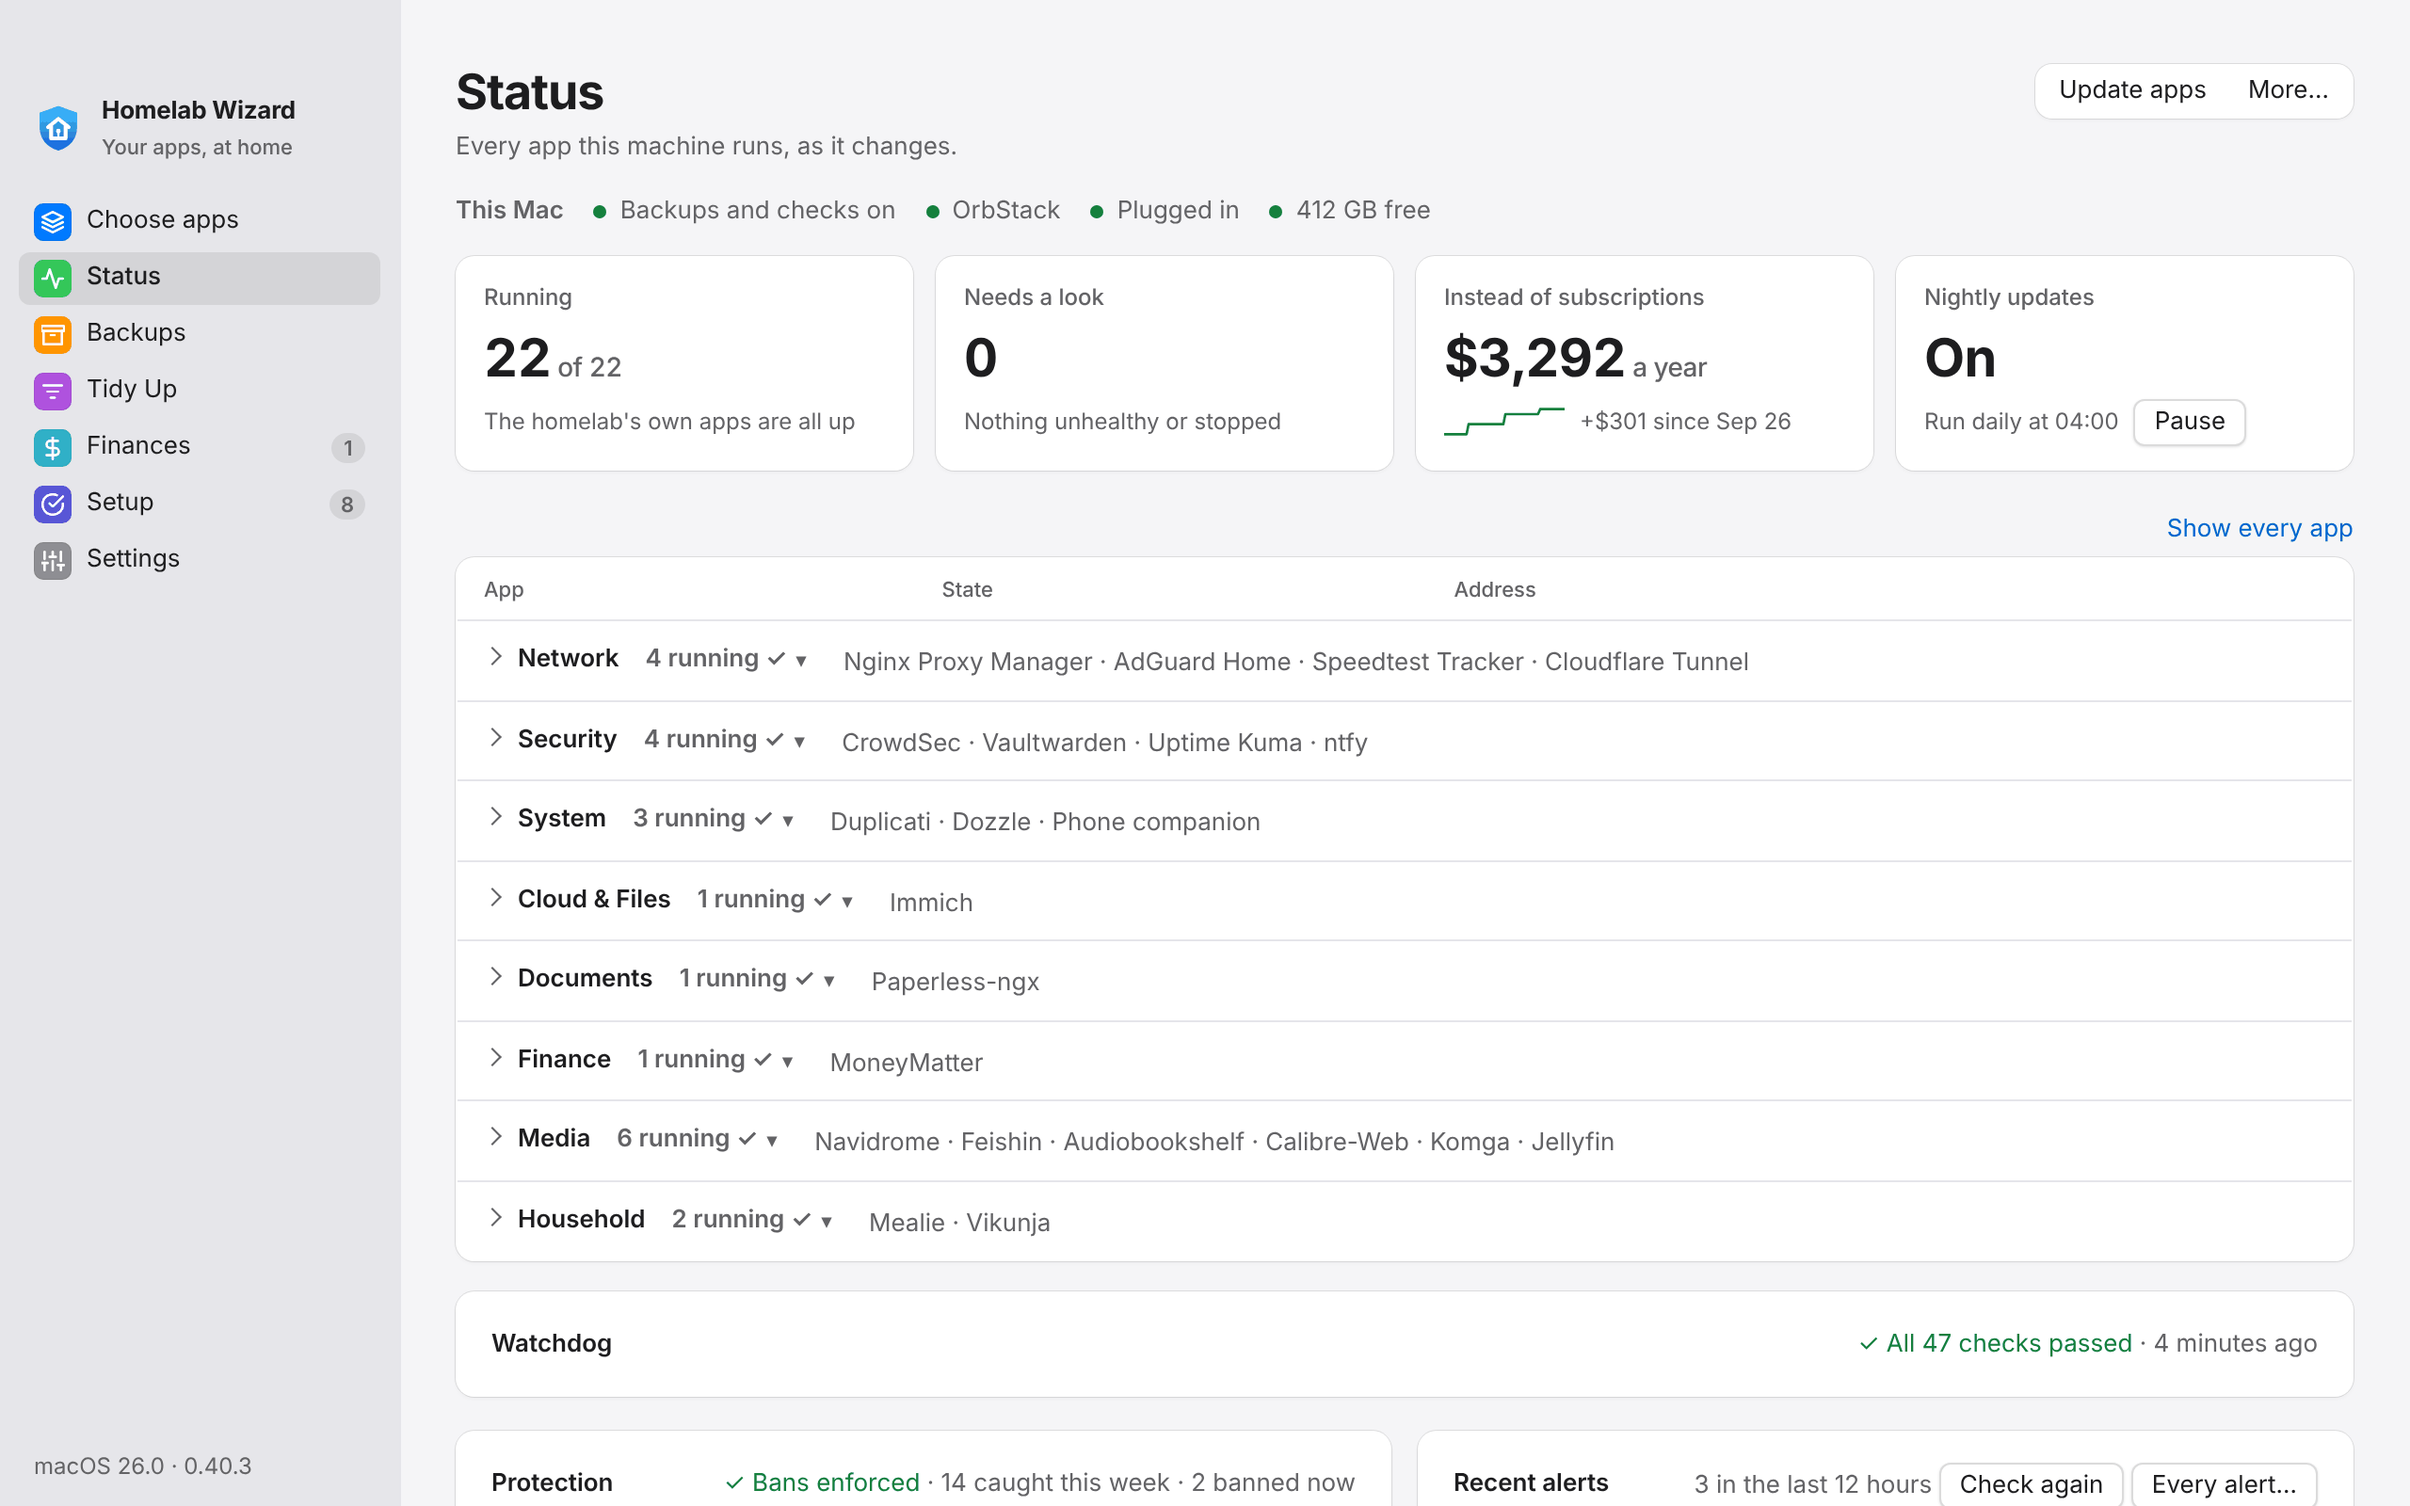
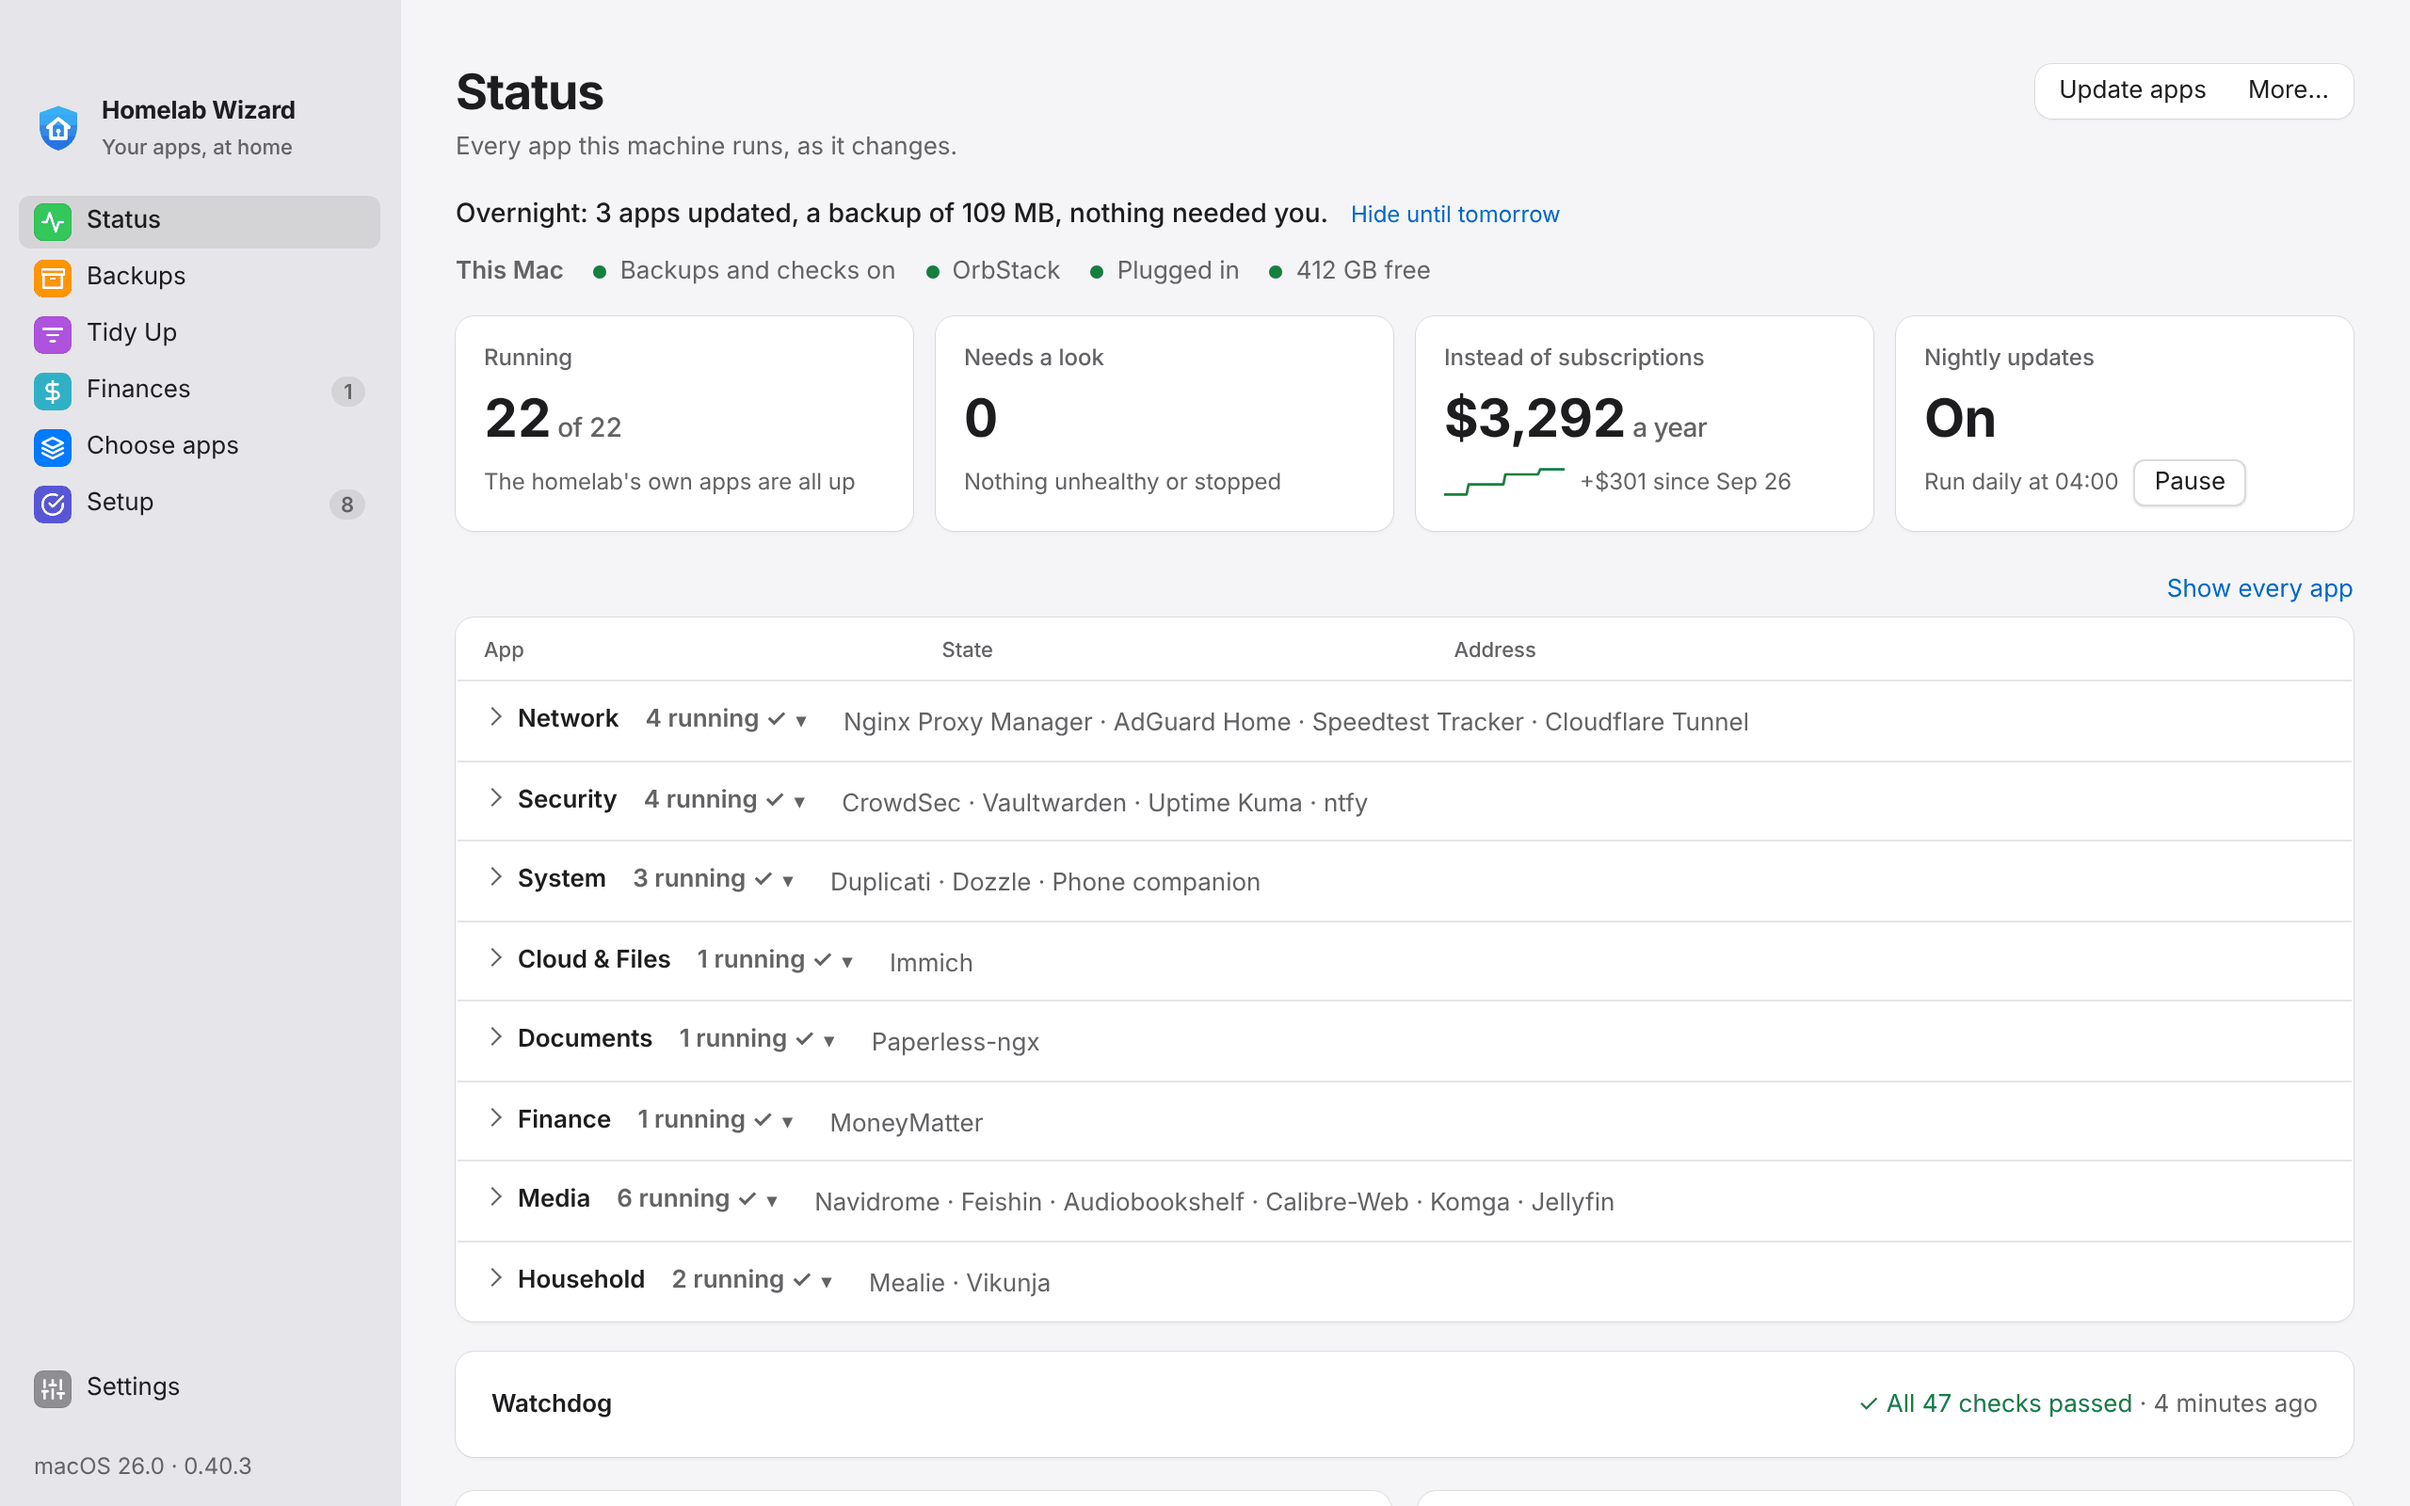
The sidebar in the redesign's order: Status, Backups, Tidy Up, Finances, Choose apps, Settings at its foot (redesign R6, first part)
Claude-Session: https://claude.ai/code/session_01MiSTxseDPUYYgrtQvknXsP

diff --git a/web/dist/index.html b/web/dist/index.html
@@ -10,11 +10,11 @@
 <!-- Icons: Feather (feathericons.com, MIT licence), drawn inline. -->
 <nav aria-label="Screens">
   <div class="brand"><img src="logo.svg" alt=""><span>Homelab Wizard<small>Your apps, at home</small></span></div>
-  <button data-screen="choose" class="active"><svg class="icon" viewBox="0 0 24 24"><polygon points="12 2 2 7 12 12 22 7 12 2"/><polyline points="2 17 12 22 22 17"/><polyline points="2 12 12 17 22 12"/></svg><span>Choose apps</span></button>
   <button data-screen="status"><svg class="icon" viewBox="0 0 24 24"><polyline points="22 12 18 12 15 21 9 3 6 12 2 12"/></svg><span>Status</span><span class="count" id="statusCount"></span></button>
   <button data-screen="backups"><svg class="icon" viewBox="0 0 24 24"><polyline points="21 8 21 21 3 21 3 8"/><rect x="1" y="3" width="22" height="5"/><line x1="10" y1="12" x2="14" y2="12"/></svg><span>Backups</span><span class="count" id="backupsCount"></span></button>
   <button data-screen="tidy"><svg class="icon" viewBox="0 0 24 24"><path d="M3 6h18"/><path d="M7 12h10"/><path d="M10 18h4"/></svg><span>Tidy Up</span><span class="count" id="tidyCount"></span></button>
   <button data-screen="finances"><svg class="icon" viewBox="0 0 24 24"><line x1="12" y1="1" x2="12" y2="23"/><path d="M17 5H9.5a3.5 3.5 0 0 0 0 7h5a3.5 3.5 0 0 1 0 7H6"/></svg><span>Finances</span><span class="count" id="financesCount"></span></button>
+  <button data-screen="choose" class="active"><svg class="icon" viewBox="0 0 24 24"><polygon points="12 2 2 7 12 12 22 7 12 2"/><polyline points="2 17 12 22 22 17"/><polyline points="2 12 12 17 22 12"/></svg><span>Choose apps</span></button>
   <div id="finMenu"></div>
   <div id="finNav" class="fx-navbalances"></div>
   <button data-screen="setup"><svg class="icon" viewBox="0 0 24 24"><path d="M22 11.08V12a10 10 0 1 1-5.93-9.14"/><polyline points="22 4 12 14.01 9 11.01"/></svg><span>Setup</span><span class="count" id="setupCount"></span></button>

diff --git a/web/dist/style.css b/web/dist/style.css
@@ -82,6 +82,11 @@ nav button.active::before, nav .finmenuitem.on::before { content:""; position:ab
 nav .count { margin-left:auto; font-size:11px; font-weight:700; min-width:20px; padding:1px 7px; border-radius:999px; background:var(--amber); color:var(--amber-ink); text-align:center; }
 nav .count:empty { display:none; }
 .foot { margin-top:auto; font-size:12px; color:var(--nav-muted); padding:10px 8px 0; border-top:1px solid var(--nav-line); }
+/* The homelab's sidebar (docs/Redesign.md, The computer's sidebar; redesign-loop R6): Status, Backups, Tidy Up, Finances,
+   Choose apps, and Settings at its foot, over the line about the computer. */
+html:not(.companion) nav > button[data-screen="settings"] { margin-top:auto; }
+html:not(.companion) nav:has(> button[data-screen="settings"]) .foot { margin-top:6px; }
+html:not(.companion) nav:has(> button[data-screen="finances"].active) .foot { margin-top:auto; }
 
 /* Layout */
 main { flex:1; overflow:auto; padding:26px 30px 40px; position:relative; }

diff --git a/.claude/prompts/redesign-loop.md b/.claude/prompts/redesign-loop.md
@@ -40,7 +40,7 @@ Each is one pull request unless it says it's split. Tick it in the pull request 
   - **The cards the picture doesn't have (the owner, Nov 23):** the notices (Bills not seen, New prices, Bills' averages, Since the balances) stay, at the top, and only when there's something to do. The rest move to the page they belong to, nothing lost: This paycheck and Renewing soon to Bills & paychecks, Checking ahead to Calendar, Looking back and Money flow to Reports, Spent this month to Budgets (Transactions until R4 makes Budgets a page), Goals to Net worth. Customise still brings any card back to the Dashboard.
 - [x] **R4. Transactions.** `computer-transactions.png`: the table first; the filters in one row of designed dropdowns (a menu button from `parts/`, in place of the browser's `<select>`), the same filters as now; rows grouped by day with each day's total; the payee's logo, the category's coloured tag, the account, and *Linked to* (the planned bill or paycheck a row paid). Budgets and *This month* move to the Budgets page. At 860px and on the phone, the list. The banks' strip ("3 new from your banks…") once M1 or M2 reports what came in. **Done Nov 24 (the table, Budgets' page); left:** the filters as menu buttons from `parts/` (styled `<select>`s today, to keep the keyboard and every test that picks one), the picture's checkboxes column, and the period from the top bar on Transactions.
 - [ ] **R5. The rest of Finances:** Budgets, Bills & paychecks, Calendar, Net worth, Reports and an account's own page, each in the pattern (no picture: follow the pattern and the Dashboard's look, and put the pictures in the pull request). Also: Add a payment's logo picker no longer a Tab stop per logo (usability task 15, item 3: 344 presses of Tab to reach Name).
-- [ ] **R6. Status and the homelab's sidebar.** Everywhere outside Finances and Tidy Up the sidebar is Status, Backups, Tidy Up, Finances, Choose apps, with Settings at its foot and one line about the computer. Status leads with one headline ("All good" or "1 app needs you"), then the problems each with its fix, then the apps by category as compact rows, then the rest of today's cards, folded or lower. One problem, one badge. Units in one style (GB and MB, a space before).
+- [ ] **R6. Status and the homelab's sidebar.** Everywhere outside Finances and Tidy Up the sidebar is Status, Backups, Tidy Up, Finances, Choose apps, with Settings at its foot and one line about the computer. Status leads with one headline ("All good" or "1 app needs you"), then the problems each with its fix, then the apps by category as compact rows, then the rest of today's cards, folded or lower. One problem, one badge. Units in one style (GB and MB, a space before). **Split (Nov 24):** (a) the sidebar's order and Settings at its foot, done; (b) Status's headline card with the problems and their fixes; (c) the apps by category as compact rows, today's other cards folded or lower; (d) one badge per problem and the units' style.
 - [ ] **R7. Backups** as `computer-backups.png`: Last night with fourteen nights, Needs you, Restore test, Off-site, Each app. *Not in any backup*, *Get something back* and each app's nights join as lane Q's Q4 ships them.
 - [ ] **R8. Settings** as `computer-settings.png`: People, Phones, Automatic care, Alerts, Reaching the apps, This Mac; each app's own settings under Advanced. Bank connections joins with M1.
 - [ ] **R9. Tidy Up** as `computer-tidy.png`: its sidebar (Overview, each library, the drives), Today with Undo, Needs a look, Needs your OK (the next first; a step that throws things away never gets the main button), the drive, Your libraries, Recently done, Genres. Watched folders and when to tidy behind the settings button; a library's step-by-step clean-up inside its page.

diff --git a/CHANGELOG.md b/CHANGELOG.md
@@ -16,6 +16,7 @@ Notes are grouped as **New**, **Improved**, and **Fixed**, one line each, in pla
 - **Sort Transactions on the Homelab app:** on the iPhone and iPad, **Sort** beside Filter sorts Transactions by the date, payee, category, account or amount, either way, as the computer's column headers do, and each device remembers its choice. By anything but the date it's one list, each row with its day, and **Newest First** goes back. A long list shows 200 rows at a time, with **Show 200 More**.
 - **Sort these on the Homelab app's Transactions:** as on the computer, the top of Transactions on the iPhone and iPad lists what looks like a planned payment, to **Link** or say **Not It**, and money out of one of your accounts with the same into another, to **Join** as one transfer or say **Not One Transfer**. Each has Undo, and works away from home too.
 <!-- Everything else (the other lanes): add a line just below this one. -->
+- **The sidebar in the redesign's order:** Status first, then Backups, Tidy Up, Finances and Choose apps, with Settings at the foot over the line about this computer. The keyboard shortcuts are as they were (⌘1 Choose apps, ⌘2 Status, …).
 - **Transactions as a table, and Budgets a page of its own:** on the computer, Transactions opens on its table, as the redesign's picture: each payee's category a tag in its colour, the account with its logo, a **Linked to** column naming the planned bill or paycheck a transaction paid, and every day's total in its band. **Budgets**, in Finances' menu, holds This month and your budgets; a category opens its transactions. The Dashboard's Budgets to watch opens it. The phone keeps them over its Transactions.
 - **Finances' Dashboard as the redesign's picture:** three columns, led by what's left after this paycheck's bills with Latest transactions beside it (one line each: the category's colour, the day under the amount), then Net worth, Cash flow, Where the money went, Coming up, Budgets to watch, and Investments with this month's change for the whole and each account. What needs you (bills not seen, new prices) stays at the top, only when there's something. The other cards moved to their own pages: This paycheck to Paychecks; Renewing soon and Where it goes to Recurring; Checking ahead to Calendar; Looking back and Money flow to Reports. Arrange still brings any card back. The phone's Dashboard is unchanged for now.
 - **Finances' top bar in one row:** **Add a transaction**, with a **▾** beside it for adding a payment, a paycheck, an account or a card, Update balances, and Export; the period in the middle, *Alex's paycheck* over *Fri, Nov 6 – Thu, Nov 19*, with Paycheck or Month (Today shows once you've stepped away); then the eye and a button to arrange the Dashboard. The title, the line under it, the Arrange row and the homelab's line at the top leave Finances, so the first card starts higher. Balances a week old still say so.
